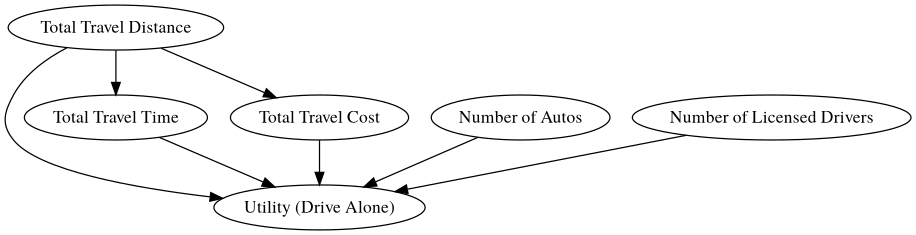
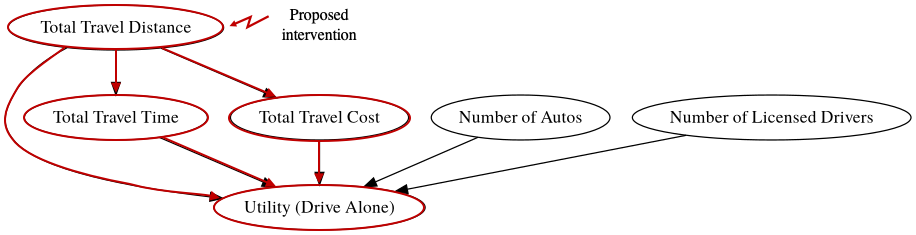
Update section 2

diff --git a/article/sections/_2_graph_importance.tex b/article/sections/_2_graph_importance.tex
@@ -44,23 +44,19 @@ We would like to forecast how such an intervention would change the share of emp
 We model this travel mode choice problem based on a dataset from \citet{brathwaite_asymmetric}.
 This dataset is based on the 2012 California Household Travel Survey, and it
 contains approximately 4000 home-based school or work tours made by approximately 3850 individuals in the California Bay area.
-The dataset includes the following eight travel modes:
+The dataset includes eight travel modes. 
+For our illustrative purposes, we focus on the following car-centric modes and will not further present details about other modes:
 
 \begin{itemize}
    \item Drive Alone: The individual uses a private vehicle to make the trip
    \item Shared Ride 2: The individual shares an automobile ride with one more individual
    \item Shared Ride 3+: The individual shares an automobile ride with two or more individuals
-   \item Walk-Transit-Walk: The individual uses transit, walking to their transit origin and from their transit destination to the final destination
-   \item Drive-Transit-Walk: The individual uses transit, driving to access transit and walking from a transit stop to their final destination
-   \item Walk-Transit-Drive: The individual uses transit, walking to access transit and driving from a transit stop to their final destination
-   \item Bike: The individual uses a bike to make the trip
-   \item Walk: The individual walks to make the trip
 \end{itemize}
 
 Readers interested in a more detailed description of the dataset can refer to \citet{brathwaite_asymmetric}.
 For purposes of this exercise, we consider the Multinomial Logit model defined in \citet{brathwaite_asymmetric} as the true outcome generating model.
 
-The systematic utility equations of the adopted multinomial logit model are specified as follows:
+The systematic utility equations of the adopted multinomial logit model for the car-centric modes are specified as follows:
 \begin{equation*}
    \begin{aligned}
    \textrm{Utility} \left(\textrm{Drive Alone}\right) &= \beta_{\textrm{travel\_time}} \times \textrm{Travel\_Time} + \beta_{\textrm{cost\_per\_distance\_drive\_alone}} \times \textrm{Cost\_per\_Distance}_{\textrm{da}} \\
@@ -73,17 +69,8 @@ The systematic utility equations of the adopted multinomial logit model are spec
    &\quad + \beta_{\textrm{cost\_per\_distance\_sr3+}} \times \textrm{Cost\_per\_Distance}_{\textrm{sr3+}} + \beta_{\textrm{autos}}  \times \textrm{Number\_of\_Autos} \\
    &\quad + \beta_{\textrm{cross\_bay}} \times \textrm{Cross\_Bay} + \beta_{\textrm{hh\_size}} \times \textrm{Household\_Size} \\
    &\quad + \beta_{\textrm{n\_kids\_hh}} \times \textrm{Number\_of\_kids} \\
-   \textrm{Utility} \left(\textrm{Walk-Transit-Walk}\right) &= ASC_{\textrm{WTW}} + \beta_{\textrm{travel\_time\_transit}} \times \textrm{Travel\_Time} \\
-   &\quad + \beta_{\textrm{travel\_cost}} \times \textrm{Travel\_Cost} \\
-   \textrm{Utility} \left(\textrm{Drive-Transit-Walk}\right) &= ASC_{\textrm{DTW}} + \beta_{\textrm{travel\_time\_transit}} \times \textrm{Travel\_Time} \\
-   &\quad + \beta_{\textrm{travel\_cost}} \times \textrm{Travel\_Cost} \\
-   \textrm{Utility} \left(\textrm{Walk-Tranist-Drive}\right) &= ASC_{\textrm{WTD}} + \beta_{\textrm{travel\_time\_transit}} \times \textrm{Travel\_Time} \\
-   &\quad + \beta_{\textrm{travel\_cost}} \times \textrm{Travel\_Cost} \\
-   \textrm{Utility} \left(\textrm{Bike}\right) &= ASC_{\textrm{Bike}} + \beta_{\textrm{travel\_distance\_bike}} \times \textrm{Travel\_Distance} \\
-   \textrm{Utility} \left(\textrm{Walk}\right) &= ASC_{\textrm{Walk}} + \beta_{\textrm{travel\_distance\_walk}} \times \textrm{Travel\_Distance} \\
    \end{aligned}
 \end{equation*}
-
 
 For our purposes, we assume that there are no latent variables.
 The variables were chosen based on the specification of the MNL model outlined by the equations above.
@@ -101,7 +88,8 @@ We can describe the variables as follows:
 
 Figure \ref{fig:IND_GRAPH} illustrates the DAG where all explanatory variables are independent of each other for each utility equation.
 This DAG represent a scenario where an analyst only modifies variables in their dataset that are directly impacted by the proposed intervention, without considering the different relationships between these variables and other explanatory variables in the dataset.
-Similarly, Figure \ref{fig:DA_causal_2} through \ref{fig:BIKE_causal_2} illustrate the causal graphs with ``dependent'' explanatory variables.
+Similarly, Figure \ref{fig:DA_causal_2} through \ref{fig:SR3_causal_2} illustrate the causal graphs with ``dependent'' explanatory variables.
+This DAG represents a scenario where an analyst considers the relationships between all variables and modifies all children nodes of the variable directly impacted by the proposed intervention.
 For our purposes, we assume that these DAGs represent the ``true'' data generating process, where several variables affect each other.
 Each of these graphs is based on the utility function of each mode in the multinomial logit model specified in \citet{brathwaite_asymmetric}.
 
@@ -133,79 +121,21 @@ Each of these graphs is based on the utility function of each mode in the multin
    \label{fig:SR3_causal_2}
 \end{figure}
 
-\begin{figure}
-   \centering
-   \includegraphics[width=0.2\textwidth]{WTW_interacting_graph}
-   \caption{Causal Graph for the Walk-Transit-Walk Utility Function}
-   \label{fig:WTW_causal_2}
-\end{figure}
+Using the same outcome model, we:
+\begin{itemize}
+   \item Simulate data from the DAGs shown in Figure \ref{fig:IND_GRAPH} through Figure \ref{fig:SR3_causal_2}
+   \item Modify the travel distance variable in all graphs to emulate a company's decision to move its employees closer to campus, and modify all children nodes of the impacted variable (where appropriate) based on the structure of each DAG.
+   \item Predict the probabilities of choosing car-centric modes before and after modifying the data to emulate the proposed intervention and compute the differences in mode choice probabilities based on the different DAGs
+\end{item}
 
-\begin{figure}
-   \centering
-   \includegraphics[width=0.2\textwidth]{WTD_interacting_graph}
-   \caption{Causal Graph for the Walk-Transit-Drive Utility Function}
-   \label{fig:WTD_causal_2}
-\end{figure}
-
-\begin{figure}
-   \centering
-   \includegraphics[width=0.2\textwidth]{DTW_interacting_graph}
-   \caption{Causal Graph for the Drive-Transit-Walk Utility Function}
-   \label{fig:DTW_causal_2}
-\end{figure}
-
-\begin{figure}
-   \centering
-   \includegraphics[width=0.2\textwidth]{WALK_interacting_graph}
-   \caption{Causal Graph for the Shared Ride 3+ Utility Function}
-   \label{fig:WALK_causal_2}
-\end{figure}
-
-\begin{figure}
-   \centering
-   \includegraphics[width=0.2\textwidth]{BIKE_interacting_graph}
-   \caption{Causal Graph for the Bike Utility Function}
-   \label{fig:BIKE_causal_2}
-\end{figure}
-
-Using the setup described above, we conduct our simulation exercise as follows:
-\begin{enumerate}
-
-   \item We build a DAG (Figure \ref{fig:DA_causal_2} through Figure \ref{fig:BIKE_causal_2}) for each utility function based on assumptions of how explanatory variables interact and influence the outcome.
-   \item We simulate data for variables without parent nodes in Figure \ref{fig:DA_causal_2} through Figure \ref{fig:BIKE_causal_2}.
-   These simulations are based on these variables' marginal distributions in our dataset.
-   \item We use the real dataset to estimate the relationships between observed variables in Figure \ref{fig:DA_causal_2} through Figure \ref{fig:BIKE_causal_2}.
-      \label{itm:sim-dag-estimation}
-   \item We use these estimated relationships to simulate the remaining explanatory variables.
-   \item We simulate outcomes based on a chosen ``true'' multinomial logit model specification and parameters.
-   \item We estimate the specified choice model using the simulated dataset.
-   \item We use the estimated model to predict baseline probabilities using the initial covariates.
-   \item We apply the do-operator \citet{pearl_causality_2000} to our simulated data by reducing the travel distance for all individuals in the dataset.
-   This emulates a company's decision to move its employees closer to campus.
-   \item We predict new probabilities based on the estimated choice model and reduced travel distances.
-   These new probabilities are used to estimate the treatment effect under the incorrect causal graph in Figure \ref{fig:IND_GRAPH}.
-   \item We simulate new travel time and travel cost values for our commuters based on the estimated relationships from Step \ref{itm:sim-dag-estimation}.
-   This completes the effect of applying the intervention, as with a total treatment effect estimator.
-   \item We predict probabilities based on the based on the estimated choice model and altered time, distance, and cost variables.
-   These probabilities are used to estimate the treatment effect under the correct causal graph in Figure \ref{fig:DA_causal_2}.
-   \item We predict probabilities based on the chosen parameters used to generate the outcomes and based on the altered time, distance, and cost variables.
-   These probabilities are used to calculate a ``true'' treatment effect.
-   \item We repeat this process multiple times, storing the three causal effect estimates on each iteration.
-
-\end{enumerate}
-
-For our purposes, we focus on car-centric modes (Drive alone, Shared ride with another person,
-and a shared ride with two or more individuals).
-We compute the difference in mode choice probabilities from different models based on the two constructed DAGs.
 Readers interested in exploring the details of our simulation exercise can refer to our GitHub repository \citep{brathwaite_etal_2020}.
-
 
 
 We then plot histograms of the computed differences between the average probability of an individual
 in our sample choosing a car centric mode before and after implementing a policy or intervention
 aimed at reducing travel distance.
 These differences are plotted under the following assumptions: that the outcome model is the same in both scenarios and that the only difference between the two scenarios is the set of variables affected by the proposed intervention.
-This difference in the set of variables affected by the proposed intervention is a result of the two different causal graphs representing each scenario (Figures \ref{fig:IND_GRAPH} and \ref{fig:DA_causal_2}).
+This difference in the set of variables affected by the proposed intervention is a result of the two different causal graphs representing each scenario (Figures \ref{fig:IND_GRAPH}, \ref{fig:DA_causal_2}, \ref{fig:SR2_causal_2}, and \ref{fig:SR3_causal_2}).
 Figure \ref{fig:histogram_probability} highlights the resulting bias between the estimated probability of an average individual choosing a car centric mode.
 The histograms show that the distribution of inferred treatment effects based on the ``true'' causal graph includes both positive and negative treatment effects.
 With low but non-trivial probability, using the wrong causal graph in one's analyses could result in not only wrong magnitudes of the treatment effect of interest but also the wrong sign.
